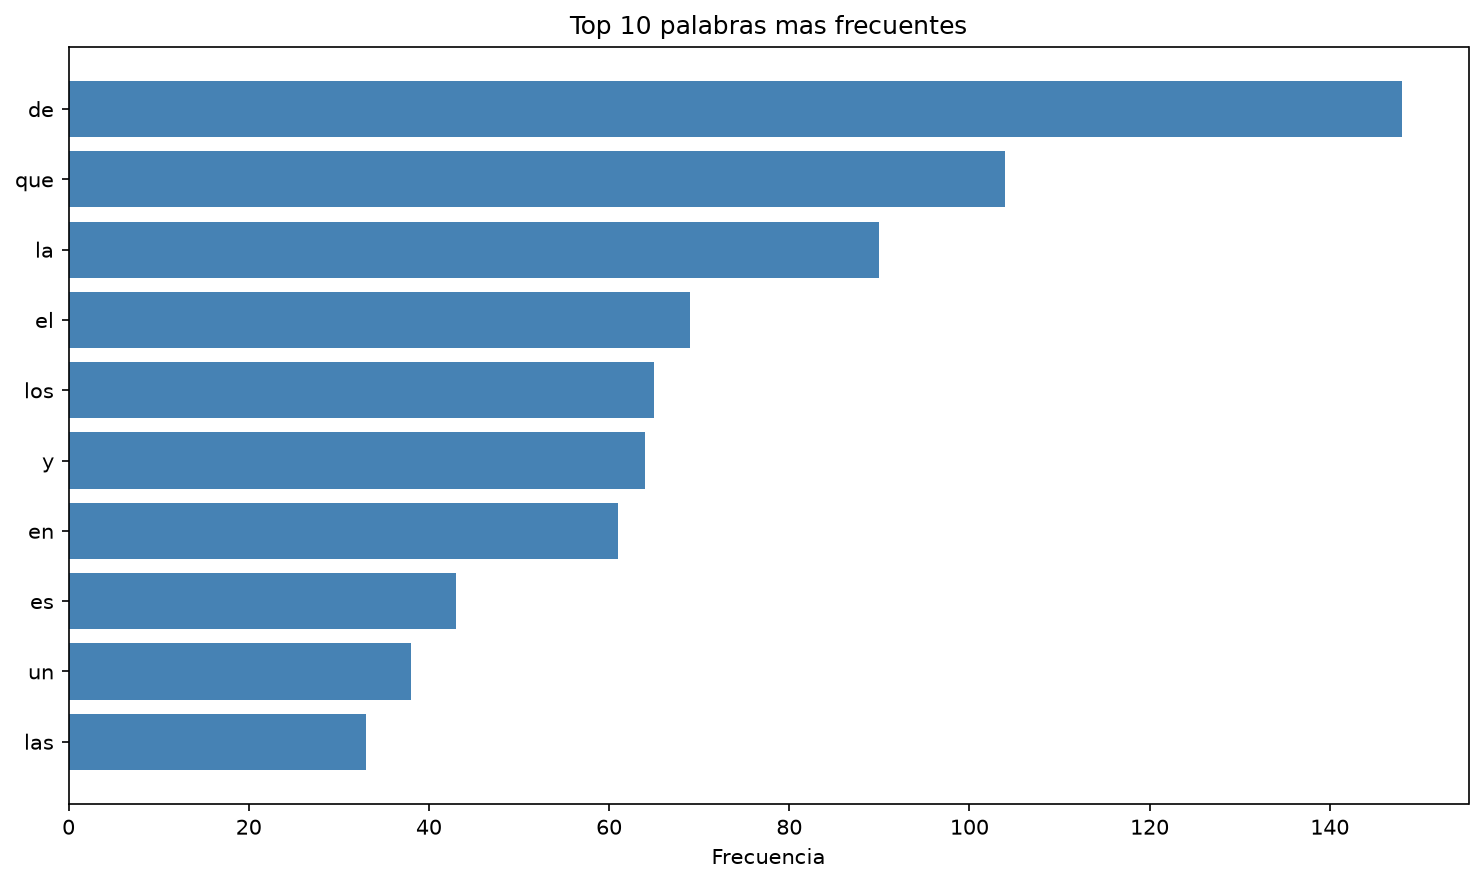
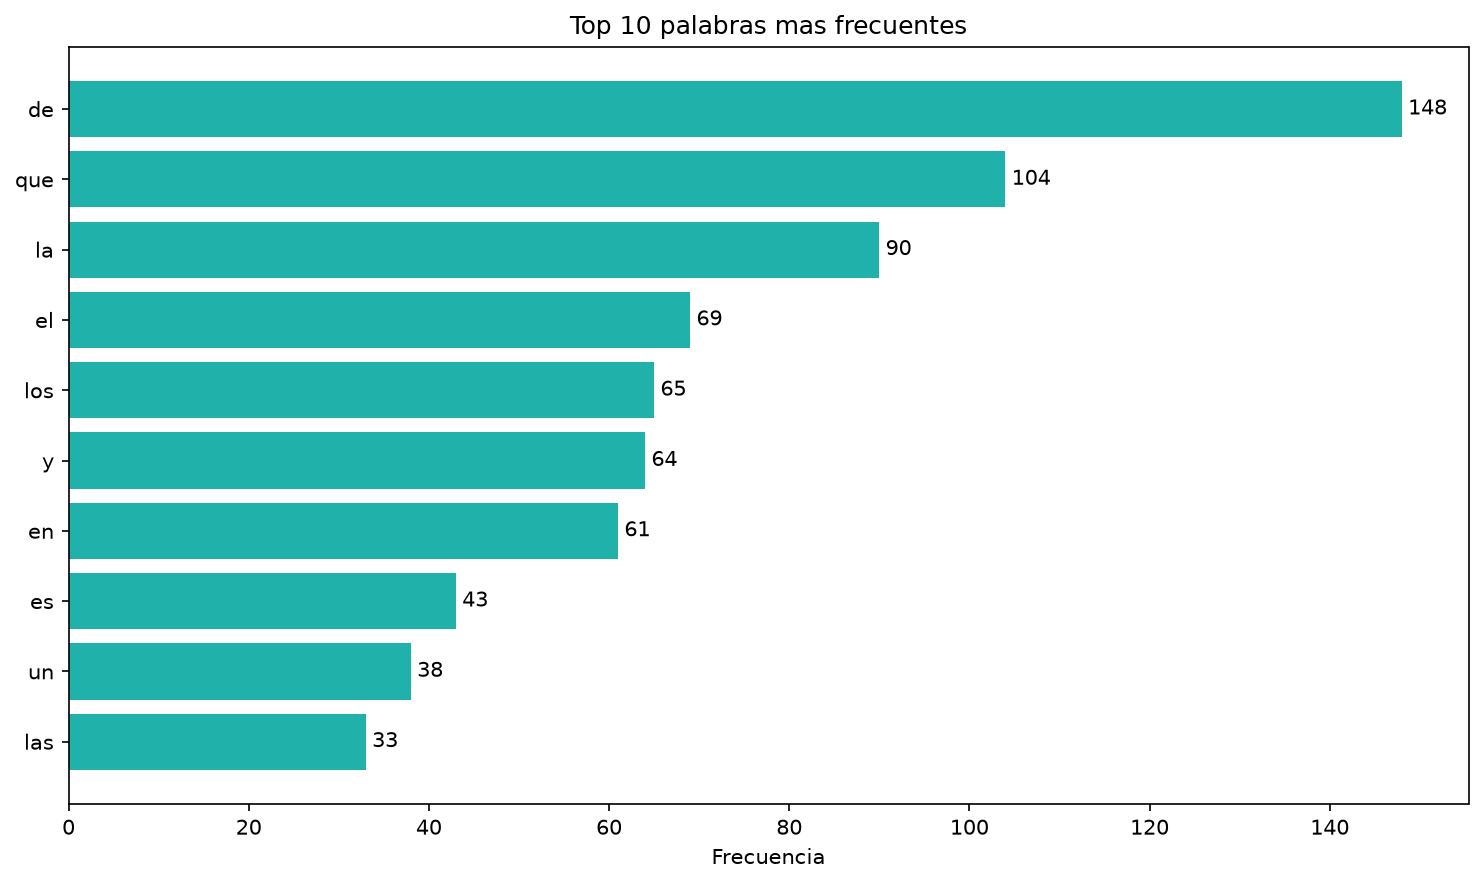
cambié color y etiquetas del gráfico, cambié texto por ruta

Changed region(s): [[0.031, 0.0916, 0.9616, 0.8857]]

diff --git a/modulo_IV/clase3/actividad_obligatoria/analizador_grafico.py b/modulo_IV/clase3/actividad_obligatoria/analizador_grafico.py
@@ -34,16 +34,17 @@ def analizar_y_graficar(ruta, top_n=10):
     valores = [p[1] for p in top10]
 
     plt.figure(figsize=(10, 6))
-    plt.barh(palabras[::-1], valores[::-1], color="steelblue")
-    plt.title(f"Top {top_n} palabras mas frecuentes")
+    #plt.barh(palabras[::-1], valores[::-1], color="steelblue")
+    bars = plt.barh(palabras[::-1], valores[::-1], color="lightseagreen")
+    plt.bar_label(bars, padding=3)
+    plt.title(f"Top {top_n} palabras más frecuentes")
     plt.xlabel("Frecuencia")
     plt.tight_layout()
     plt.savefig("grafico_frecuencias.png", dpi=150, bbox_inches="tight")
     plt.show()
 
 def main():
-    #analizar_y_graficar("texto.txt")
-    analizar_y_graficar("biblioteca_de_babel.txt")
+    analizar_y_graficar(ruta)
     
 if __name__ == "__main__":
     main()
